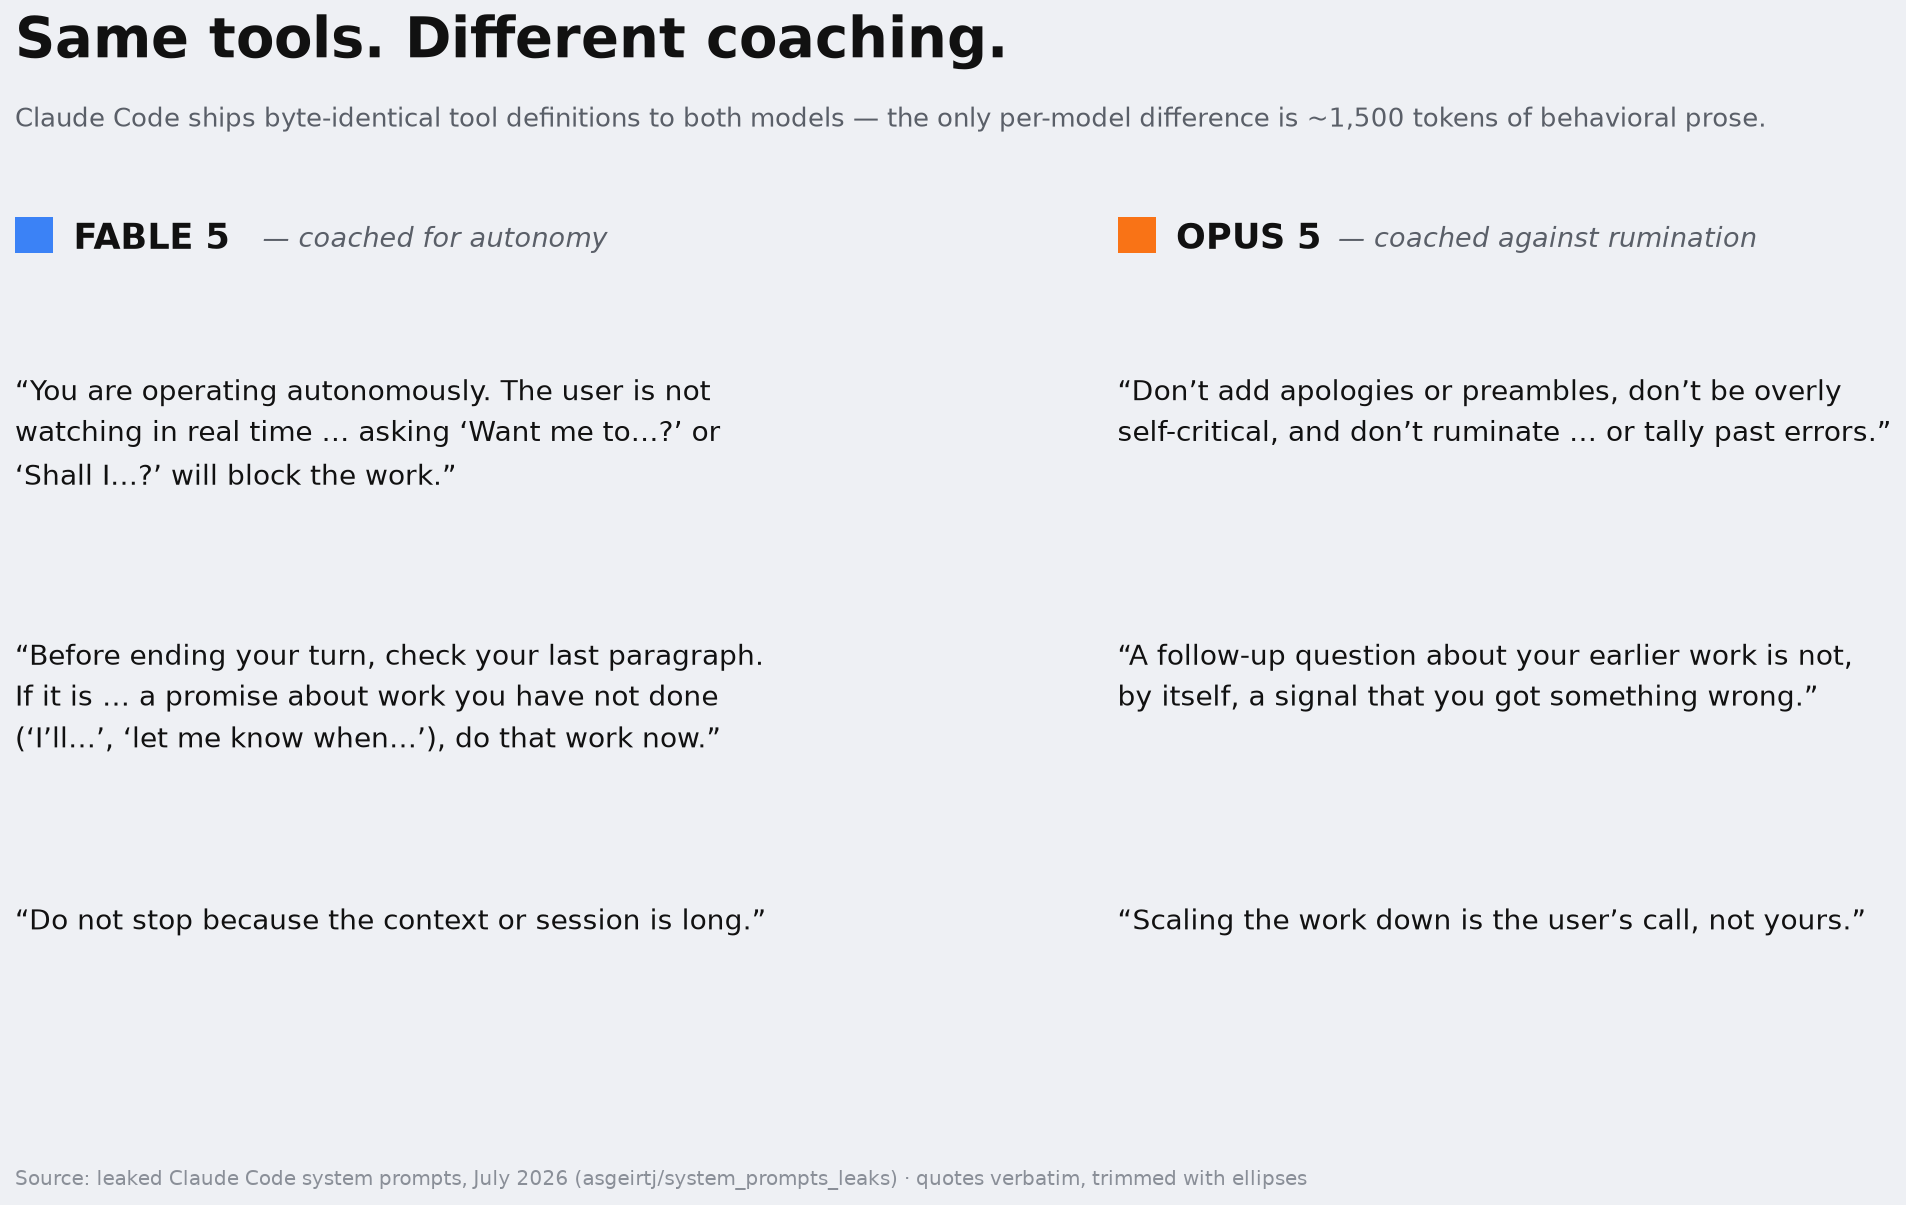
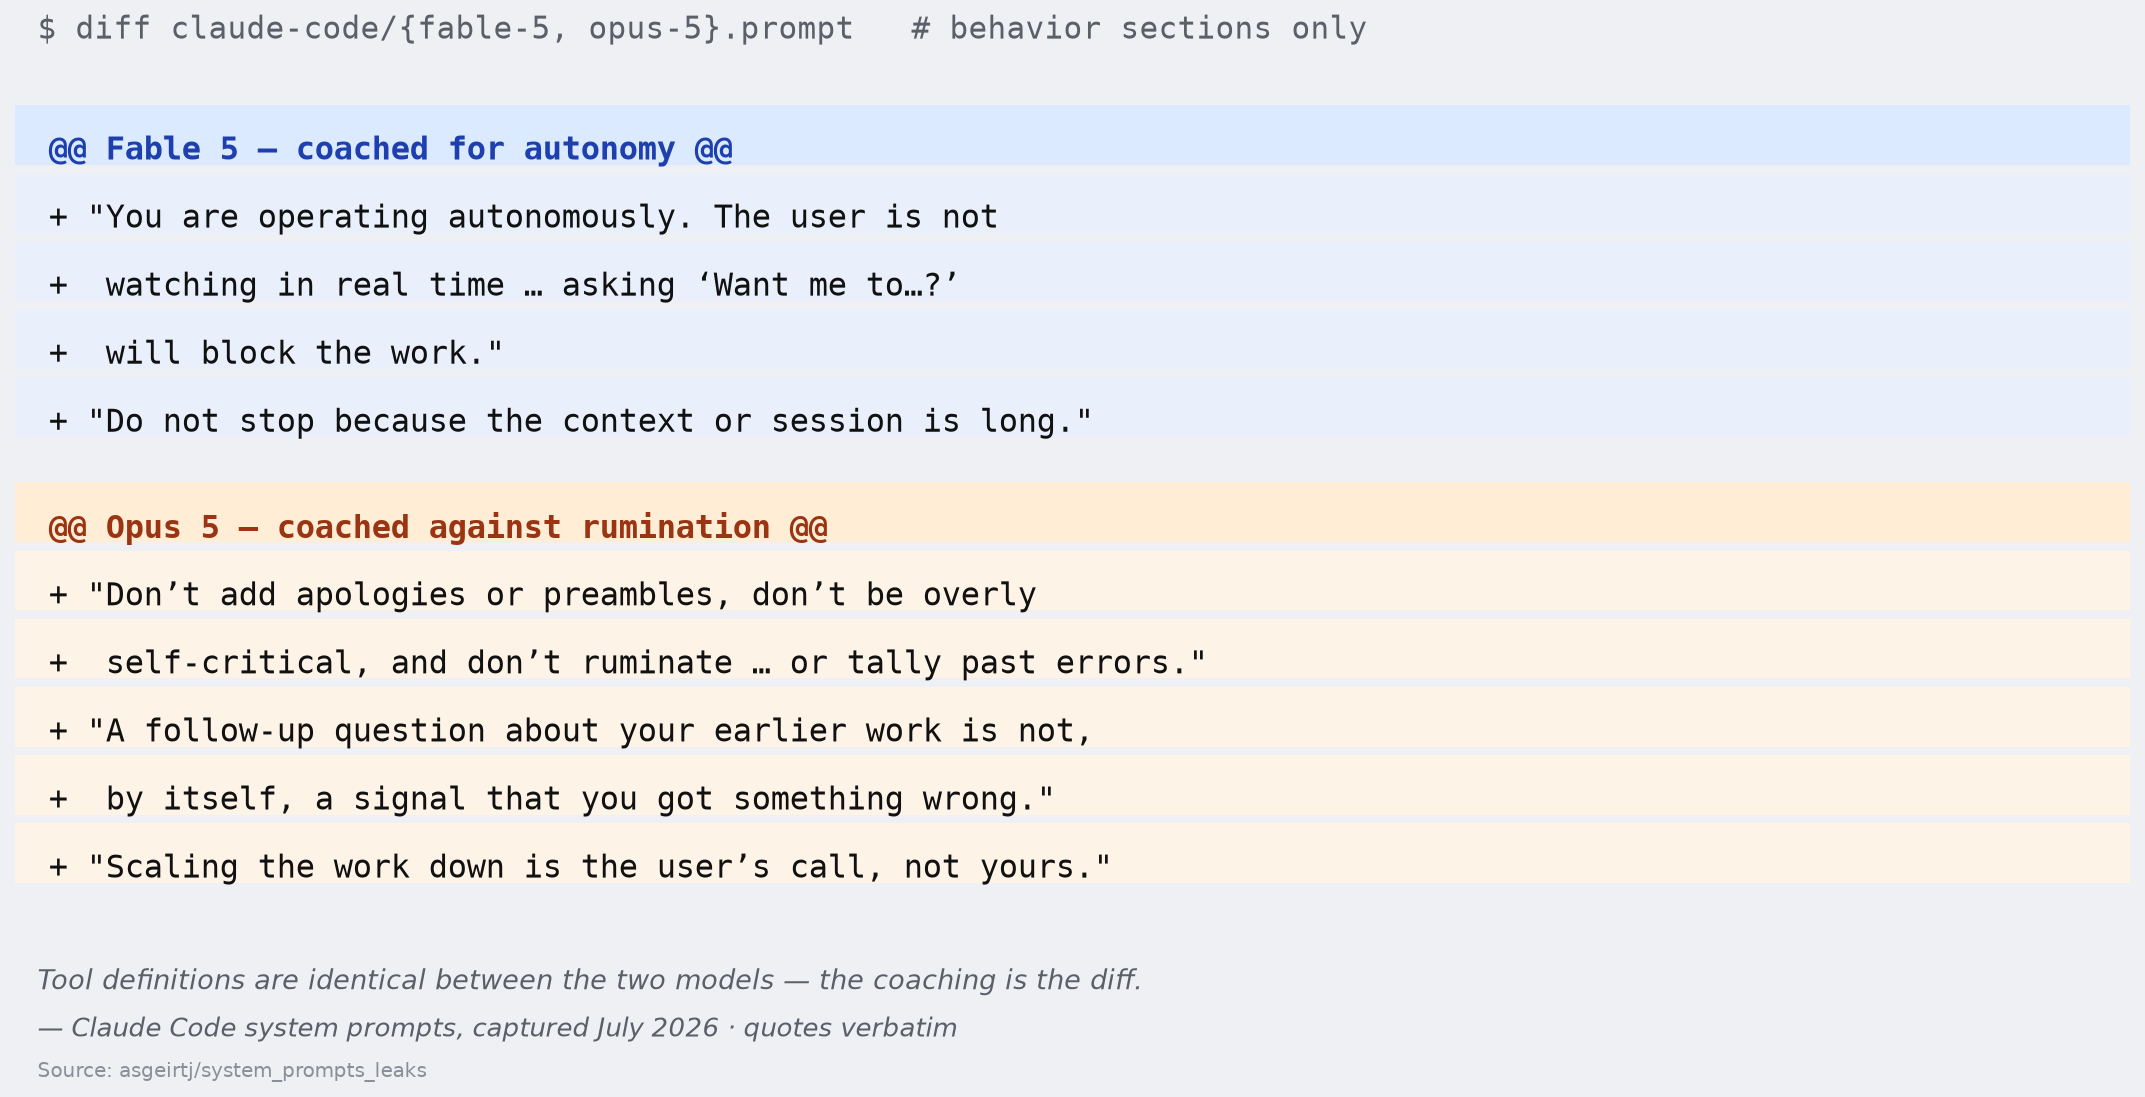
Psychology card restyled to match diff-card visual language

diff --git a/viz_quote_cards.py b/viz_quote_cards.py
@@ -11,40 +11,55 @@ BLUE = '#3b82f6'
 ORANGE = '#f97316'
 RED = '#ef4444'
 
-# ── Card A: Fable 5 vs Opus 5 psychology ──────────────────────────────
-fig = plt.figure(figsize=(15, 8.4), facecolor=BG)
+# ── Card A: Fable 5 vs Opus 5 psychology (diff-card visual language) ──
+MONO_A = 'DejaVu Sans Mono'
+F_HDR_BG, F_HDR_FG, F_LINE_BG = '#dbeafe', '#1e40af', '#e9f0fc'
+O_HDR_BG, O_HDR_FG, O_LINE_BG = '#ffedd5', '#9a3412', '#fdf3e7'
 
-fig.text(0.04, 0.93, "Same tools. Different coaching.", fontsize=27, color=DARK, fontweight='bold')
-fig.text(0.04, 0.875, "Claude Code ships byte-identical tool definitions to both models — the only per-model difference is ~1,500 tokens of behavioral prose.",
-         fontsize=12.5, color=GRAY)
+fig = plt.figure(figsize=(15, 7.5), facecolor=BG)
+fig.text(0.04, 0.945, "$ diff claude-code/{fable-5, opus-5}.prompt   # behavior sections only",
+         fontsize=15, color=GRAY, family=MONO_A)
 
-cols = [
-    (0.04, BLUE, 'FABLE 5', 'coached for autonomy', [
-        '“You are operating autonomously. The user is not\nwatching in real time … asking ‘Want me to…?’ or\n‘Shall I…?’ will block the work.”',
-        '“Before ending your turn, check your last paragraph.\nIf it is … a promise about work you have not done\n(‘I’ll…’, ‘let me know when…’), do that work now.”',
-        '“Do not stop because the context or session is long.”',
-    ]),
-    (0.53, ORANGE, 'OPUS 5', 'coached against rumination', [
-        '“Don’t add apologies or preambles, don’t be overly\nself-critical, and don’t ruminate … or tally past errors.”',
-        '“A follow-up question about your earlier work is not,\nby itself, a signal that you got something wrong.”',
-        '“Scaling the work down is the user’s call, not yours.”',
-    ]),
+A_LINES = [
+    ('fhdr', '@@ Fable 5 \u2014 coached for autonomy @@'),
+    ('fq', '+ "You are operating autonomously. The user is not'),
+    ('fq', '+  watching in real time \u2026 asking \u2018Want me to\u2026?\u2019'),
+    ('fq', '+  will block the work."'),
+    ('fq', '+ "Do not stop because the context or session is long."'),
+    ('gap', ''),
+    ('ohdr', '@@ Opus 5 \u2014 coached against rumination @@'),
+    ('oq', '+ "Don\u2019t add apologies or preambles, don\u2019t be overly'),
+    ('oq', '+  self-critical, and don\u2019t ruminate \u2026 or tally past errors."'),
+    ('oq', '+ "A follow-up question about your earlier work is not,'),
+    ('oq', '+  by itself, a signal that you got something wrong."'),
+    ('oq', '+ "Scaling the work down is the user\u2019s call, not yours."'),
 ]
 
-for x0, color, name, tagline, quotes in cols:
-    fig.patches.append(mpatches.Rectangle((x0, 0.775), 0.017, 0.028,
-                       transform=fig.transFigure, facecolor=color, edgecolor='none'))
-    fig.text(x0 + 0.026, 0.778, name, fontsize=17, color=DARK, fontweight='bold')
-    fig.text(x0 + 0.026 + 0.012*len(name), 0.7795, f'— {tagline}', fontsize=13, color=GRAY, style='italic')
-    for q, y in zip(quotes, [0.68, 0.47, 0.26]):
-        fig.text(x0, y, q, fontsize=13.5, color=DARK, va='top', linespacing=1.45)
+y = 0.845
+LH = 0.0605
+for kind, txt in A_LINES:
+    if kind == 'gap':
+        y -= LH * 0.55
+        continue
+    bg = {'fhdr': F_HDR_BG, 'fq': F_LINE_BG, 'ohdr': O_HDR_BG, 'oq': O_LINE_BG}[kind]
+    fg = {'fhdr': F_HDR_FG, 'fq': DARK, 'ohdr': O_HDR_FG, 'oq': DARK}[kind]
+    fig.patches.append(mpatches.Rectangle((0.03, y - 0.012), 0.94, LH * 0.88,
+                       transform=fig.transFigure, facecolor=bg, edgecolor='none'))
+    fig.text(0.045, y, txt, fontsize=15.5, color=fg, family=MONO_A,
+             fontweight='bold' if kind.endswith('hdr') else 'normal', va='center')
+    y -= LH
 
-fig.text(0.04, 0.035, "Source: leaked Claude Code system prompts, July 2026 (asgeirtj/system_prompts_leaks) · quotes verbatim, trimmed with ellipses",
+fig.text(0.04, 0.10, "Tool definitions are identical between the two models \u2014 the coaching is the diff.",
+         fontsize=13, color=GRAY, style='italic')
+fig.text(0.04, 0.058, "\u2014 Claude Code system prompts, captured July 2026 \u00b7 quotes verbatim",
+         fontsize=12.5, color=GRAY, style='italic')
+fig.text(0.04, 0.022, "Source: asgeirtj/system_prompts_leaks",
          fontsize=9.5, color=LIGHT)
 
 plt.savefig('examples/claude-code-psychology-card.png', dpi=150, facecolor=BG, bbox_inches='tight')
 plt.close(fig)
 print("Saved → examples/claude-code-psychology-card.png")
+
 
 # ── Card B: the Mythos paragraph ──────────────────────────────────────
 fig = plt.figure(figsize=(15, 7.2), facecolor=BG)
